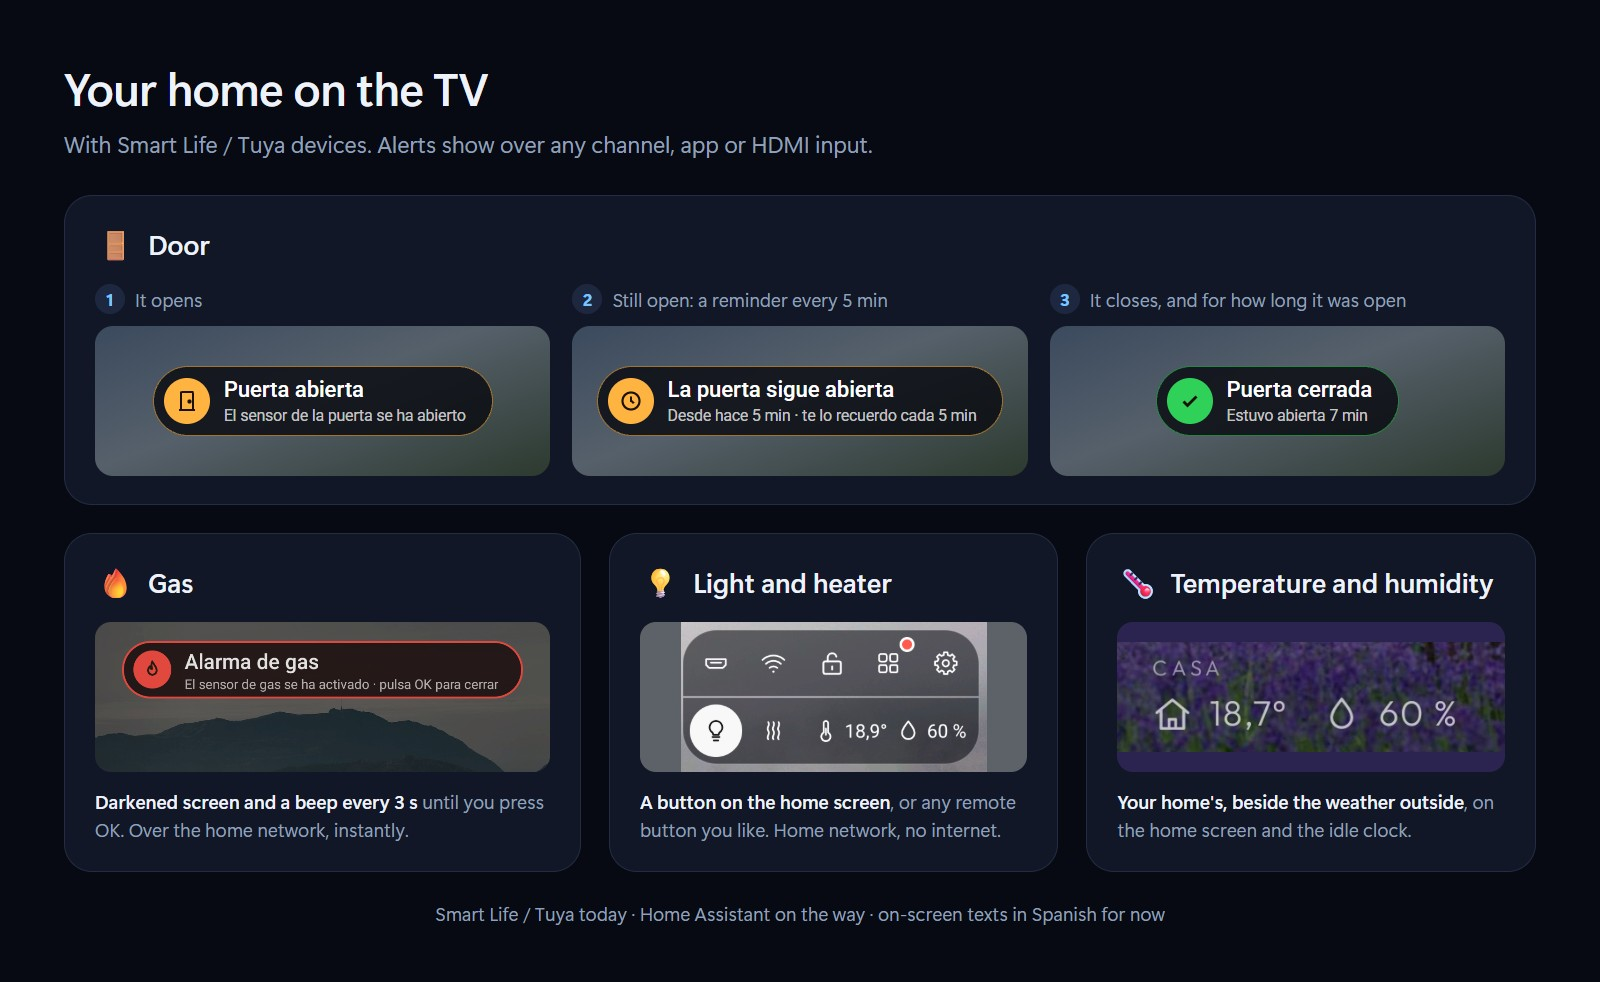
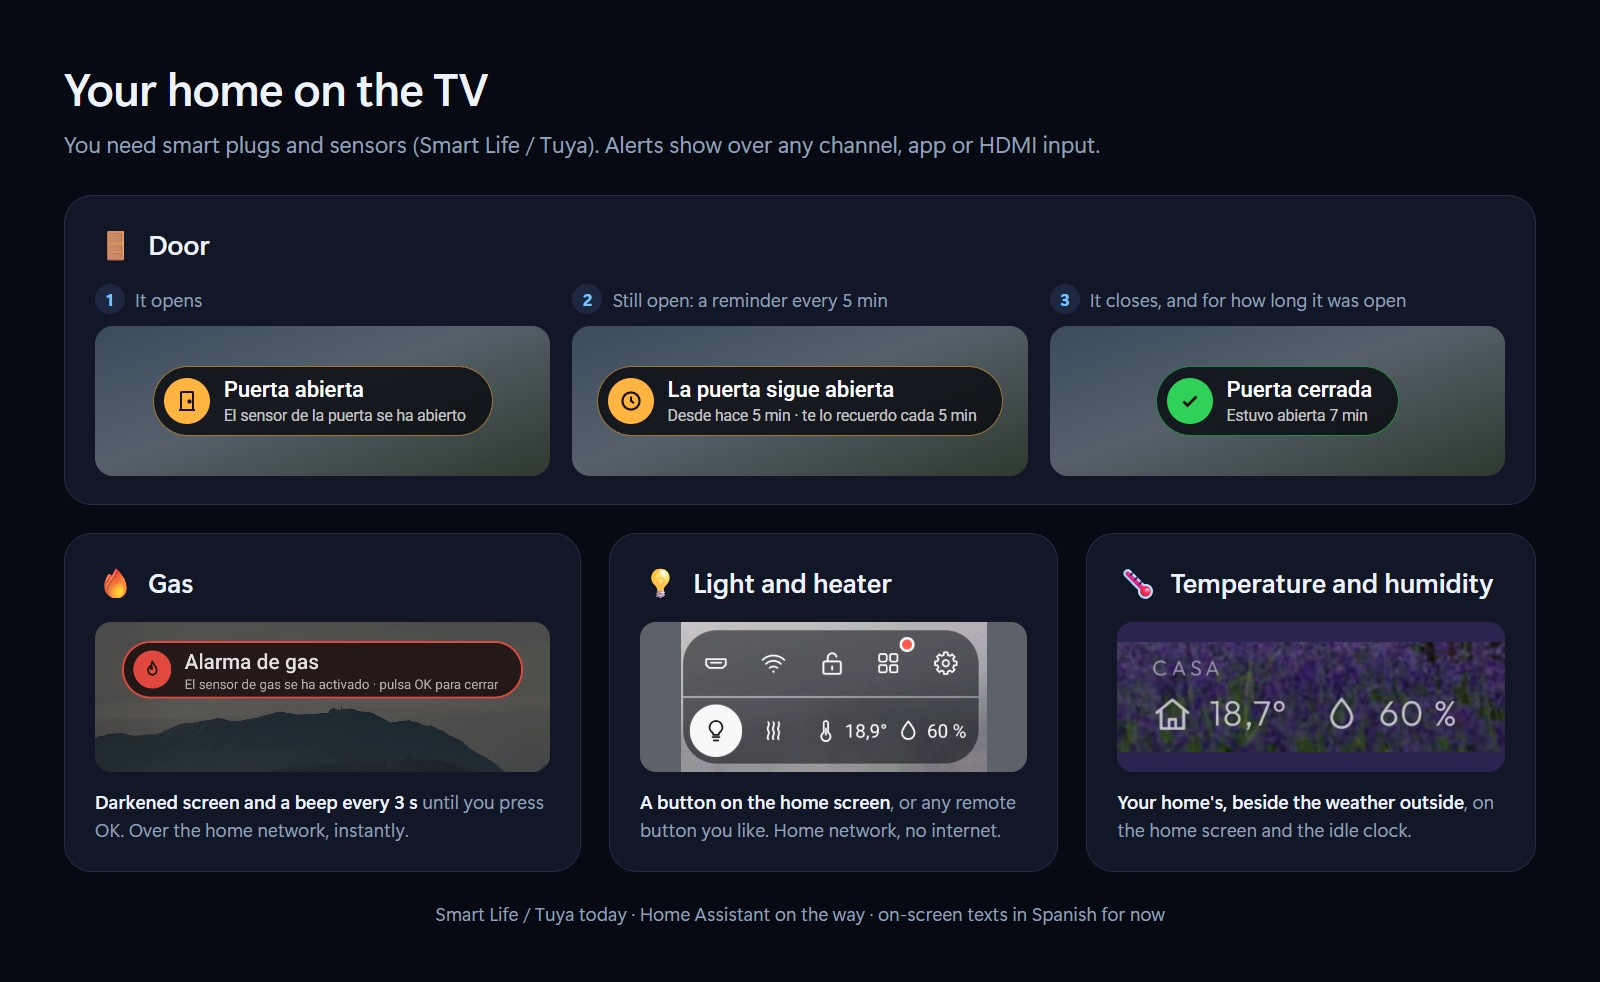
Smart home: state clearly that it needs smart plugs and sensors (what to buy for each feature)

Changed region(s): [[0.0312, 0.1222, 0.6875, 0.1833]]

diff --git a/docs/guides/home-automation.es.md b/docs/guides/home-automation.es.md
@@ -17,9 +17,23 @@ Los avisos salen encima de cualquier canal, app o entrada HDMI, con la tele ence
 
 ## Qué necesitas
 
-- Los aparatos dados de alta en la app **Smart Life** (o Tuya Smart): un enchufe para la luz, otro para el calefactor,
-  un sensor de puerta, uno de gas y uno de temperatura y humedad. Sirve cualquier combinación: lo que no tengas se queda
-  fuera.
+**Aparatos inteligentes en casa.** La tele no detecta nada por sí sola: cada función necesita su aparato, dado de alta
+en la app **Smart Life** (o Tuya Smart). Busca «Smart Life» o «Tuya» en la caja. Pon solo los que quieras; lo que no
+tengas se queda fuera.
+
+| Para | Necesitas |
+|---|---|
+| 💡 Luz | Un **enchufe inteligente wifi**, con la lámpara enchufada y encendida en su interruptor. |
+| ♨ Calefactor | Otro **enchufe inteligente wifi** que aguante su potencia (mira los vatios del calefactor; muchos enchufes aguantan 16 A, unos 3.600 W), con el calefactor encendido en su propio interruptor. |
+| 🚪 Puerta | Un **sensor de puerta o ventana** (de contacto) wifi. |
+| 🔥 Gas | Un **detector de gas wifi**, enchufado a la corriente. |
+| 🌡 Temperatura y humedad | Un **sensor de temperatura y humedad** wifi. |
+
+Probado con aparatos wifi, sin pasarela Zigbee. El aviso de gas en la tele es un aviso más: **no sustituye** a un
+detector homologado con su propia alarma.
+
+Además:
+
 - El launcher de Tuned TV instalado ([el launcher](../../README.es.md#el-launcher)).
 - En el ordenador, un entorno de Python aparte con las librerías de Tuya. Va fuera del repo, porque guarda tu sesión:
   ```bash

diff --git a/docs/guides/home-automation.md b/docs/guides/home-automation.md
@@ -17,8 +17,23 @@ Alerts show over any channel, app or HDMI input, while the TV is on.
 
 ## What you need
 
-- The devices added to the **Smart Life** app (or Tuya Smart): a plug for the light, another for the heater, a door
-  sensor, a gas sensor and a temperature and humidity sensor. Any combination works: what you don't have is left out.
+**Smart devices at home.** The TV detects nothing on its own: each feature needs its device, added to the **Smart
+Life** app (or Tuya Smart). Look for "Smart Life" or "Tuya" on the box. Add only the ones you want; what you don't have
+is left out.
+
+| For | You need |
+|---|---|
+| 💡 Light | A **Wi-Fi smart plug**, with the lamp plugged in and switched on at its own switch. |
+| ♨ Heater | Another **Wi-Fi smart plug** rated for its power (check the heater's watts; many plugs take 16 A, about 3,600 W), with the heater switched on at its own switch. |
+| 🚪 Door | A Wi-Fi **door or window (contact) sensor**. |
+| 🔥 Gas | A **Wi-Fi gas detector**, plugged into the mains. |
+| 🌡 Temperature and humidity | A Wi-Fi **temperature and humidity sensor**. |
+
+Tested with Wi-Fi devices, without a Zigbee gateway. The gas alert on the TV is an extra warning: it **does not replace** a
+certified gas detector with its own alarm.
+
+Also:
+
 - Tuned TV's launcher installed ([the launcher](../../README.md#the-launcher)).
 - On the computer, a separate Python environment with the Tuya libraries. It lives outside the repo, because it keeps
   your session:

diff --git a/README.es.md b/README.es.md
@@ -68,6 +68,11 @@ Con el complemento **Casa** y aparatos de Smart Life / Tuya, la tele avisa de la
 viendo, y enciende la luz o el calefactor desde el inicio o con un botón del mando. Paso a paso, en la
 [guía de domótica](docs/guides/home-automation.es.md). Home Assistant, en camino.
 
+> [!NOTE]
+> **Hacen falta aparatos inteligentes.** Cada función va con el suyo, compatible con Smart Life / Tuya: un enchufe wifi
+> para la luz, otro para el calefactor, un sensor de puerta, un detector de gas y un sensor de temperatura y humedad.
+> Pon solo los que quieras. La [guía](docs/guides/home-automation.es.md#qué-necesitas) dice qué buscar.
+
 <sub>Los avisos de la puerta están dibujados con los colores y medidas del complemento; el gas, el panel y el reloj son
 recortes de capturas reales (fondos CC BY-SA, ver [launcher/CREDITS.md](launcher/CREDITS.md)).</sub>
 

diff --git a/README.md b/README.md
@@ -69,6 +69,11 @@ With the **Casa** add-on and Smart Life / Tuya devices, the TV alerts you about 
 are watching, and switches the light or the heater from the home screen or a remote button. Step by step in the
 [smart home guide](docs/guides/home-automation.md). Home Assistant support is on the way.
 
+> [!NOTE]
+> **You need smart devices.** Each feature comes with its own, compatible with Smart Life / Tuya: a Wi-Fi plug for the
+> light, another for the heater, a door sensor, a gas detector and a temperature and humidity sensor. Add only the
+> ones you want. The [guide](docs/guides/home-automation.md#what-you-need) says what to look for.
+
 <sub>The door alerts are drawn with the add-on's colours and sizes; the gas alarm, the panel and the clock are crops of
 real screenshots (CC BY-SA wallpapers, see [launcher/CREDITS.md](launcher/CREDITS.md)).</sub>
 
